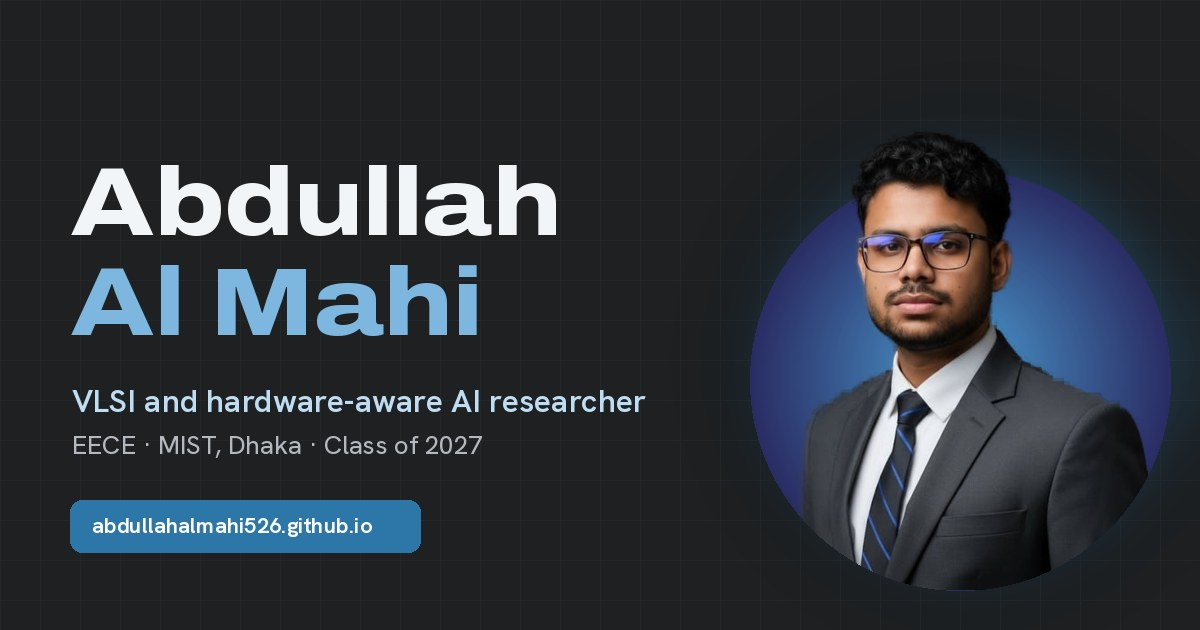
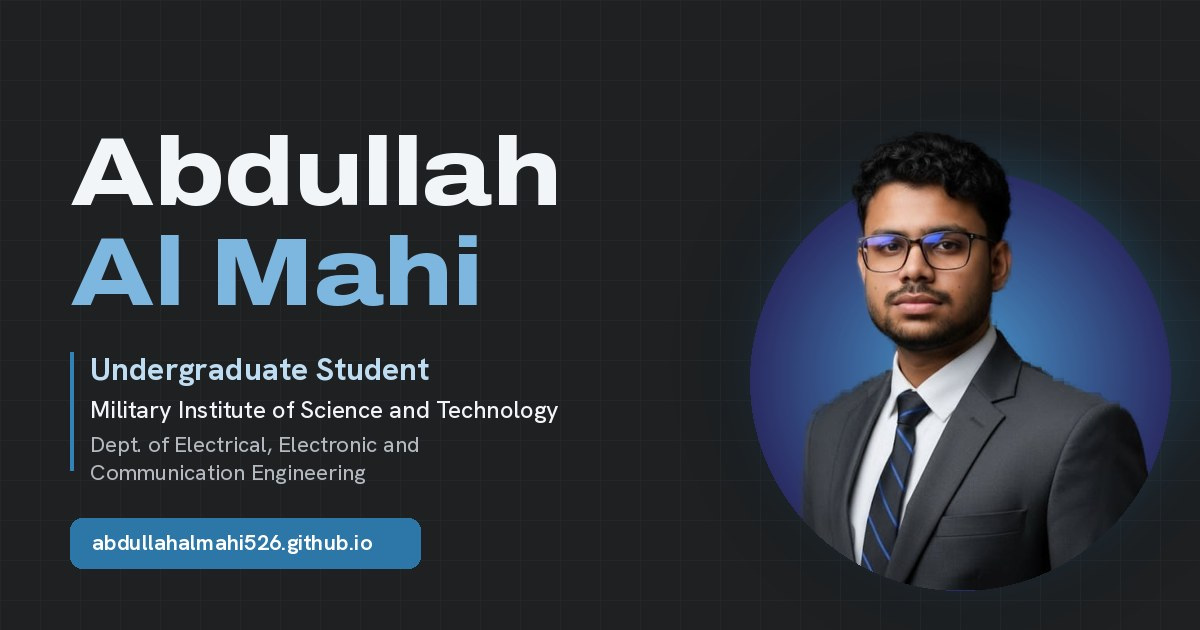
Hero introduction: student, MIST, EECE

Changed region(s): [[0.0617, 0.2111, 0.4625, 0.5429], [0.0308, 0.573, 0.555, 0.9048]]

diff --git a/index.html b/index.html
@@ -115,7 +115,10 @@ section{position:relative}
 .name span{display:block}
 .name .l2{color:transparent;-webkit-text-stroke:1.6px var(--sky);position:relative}
 .name .l2 b{color:var(--sky);-webkit-text-stroke:0;font-weight:inherit}
-.role{font:600 clamp(17px,1.6vw,20px)/1.4 var(--ft);color:var(--ice);margin-bottom:12px}
+.role{font:500 clamp(15.5px,1.35vw,17.5px)/1.45 var(--ft);color:var(--ink);margin-bottom:18px;padding-left:14px;border-left:2px solid var(--blue)}
+.role strong{display:block;font-weight:700;font-size:1.12em;color:var(--ice);margin-bottom:2px}
+.role span{display:block}
+.role span+span{color:var(--muted)}
 .hero p.intro{color:var(--muted);font-size:clamp(16.5px,1.4vw,18.5px);max-width:50ch;margin-bottom:30px}
 .cta{display:flex;flex-wrap:wrap;gap:12px;margin-bottom:30px}
 .now{display:flex;flex-wrap:wrap;gap:8px 18px;font-size:14px;color:var(--muted)}
@@ -430,9 +433,9 @@ footer .wrap{display:flex;justify-content:space-between;gap:14px;flex-wrap:wrap}
   <div class="hero-bg" aria-hidden="true"><svg id="traces" viewBox="0 0 1440 900" preserveAspectRatio="xMidYMid slice"></svg></div>
   <div class="wrap">
     <div>
-      <div class="hero-k"><span class="dot"></span>EECE · MIST, Dhaka · Class of 2027</div>
+      <div class="hero-k"><span class="dot"></span>Dhaka, Bangladesh · Class of 2027</div>
       <h1 class="name d"><span>Abdullah</span><span class="l2">Al <b>Mahi</b></span></h1>
-      <p class="role">VLSI and hardware-aware AI researcher</p>
+      <p class="role"><strong>Undergraduate Student</strong><span>Military Institute of Science and Technology</span><span>Department of Electrical, Electronic and Communication Engineering</span></p>
       <p class="intro">I design memory circuits that compute, wearables that read how you move, and electronics for aircraft that take off straight up.</p>
       <div class="cta">
         <a class="btn solid" href="#research">See my research <svg viewBox="0 0 20 20" fill="none" stroke="currentColor" stroke-width="2"><path d="M4 10h12M11 5l5 5-5 5"/></svg></a>
